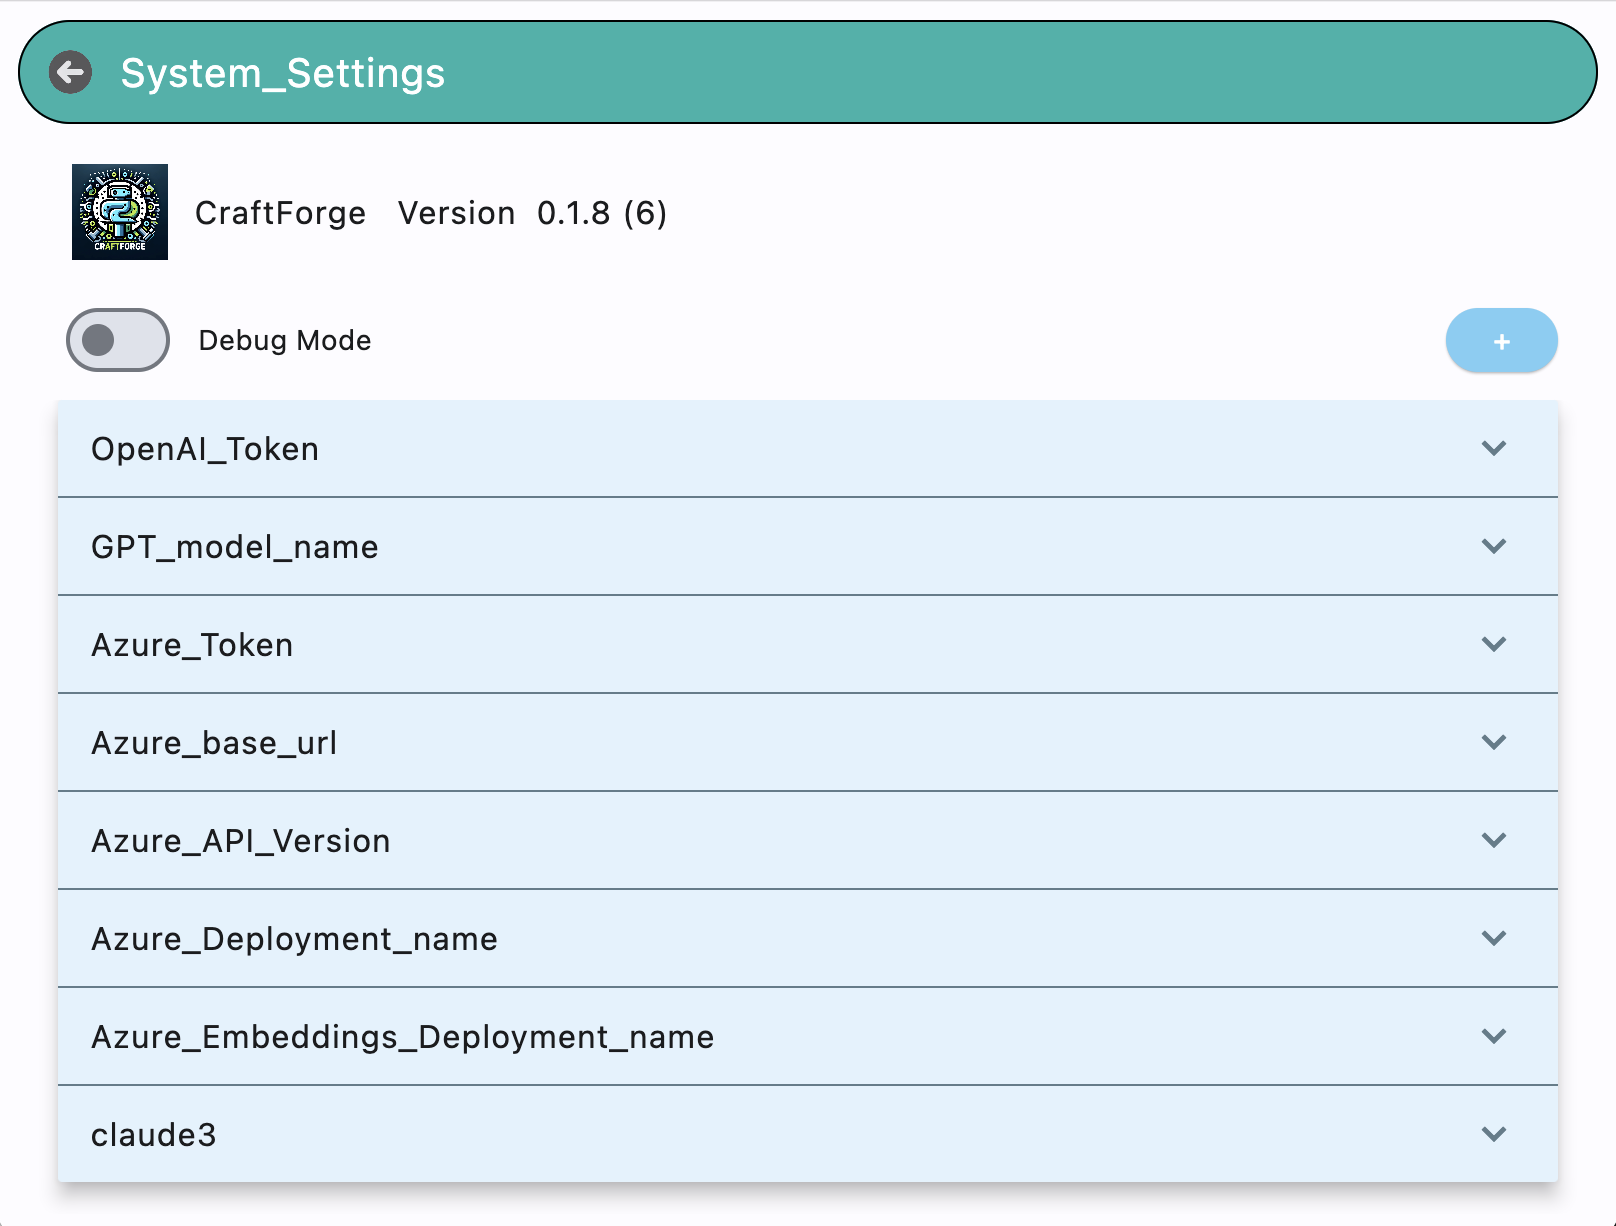
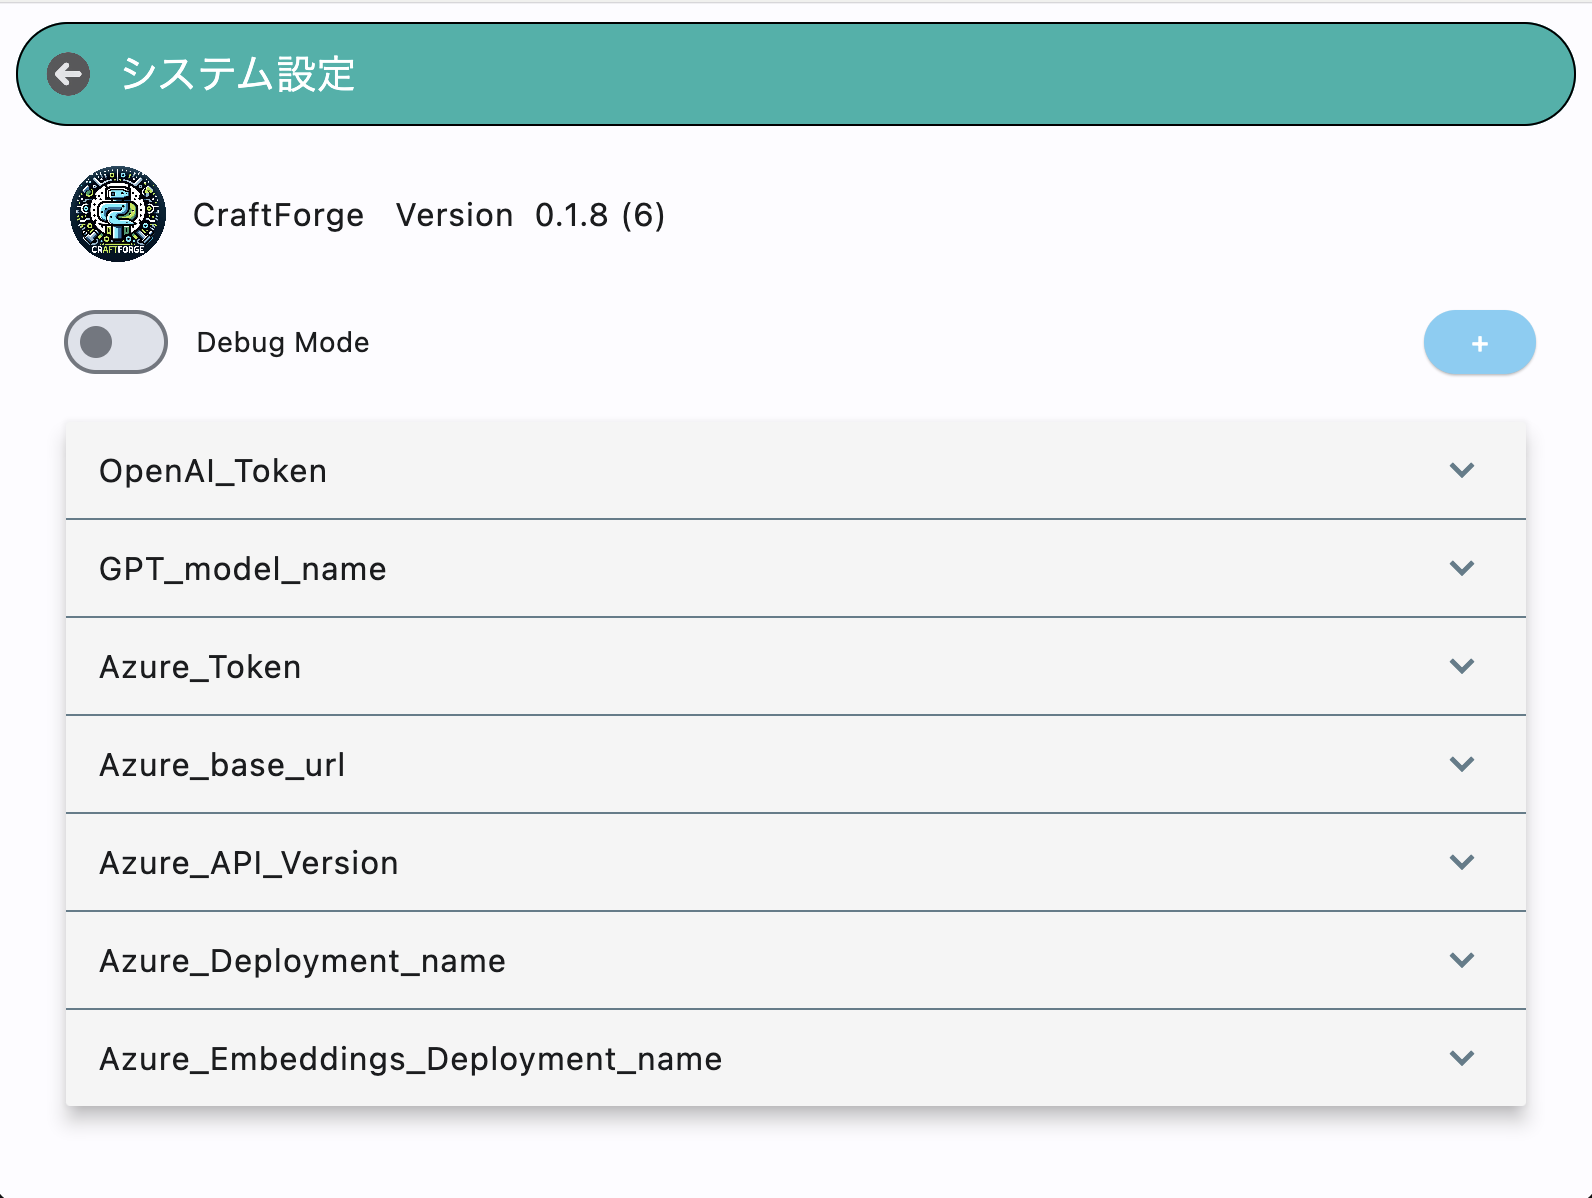
設定プラグインのレイアウト調整

diff --git a/system/settings/settings_plugin.py b/system/settings/settings_plugin.py
@@ -24,6 +24,7 @@ class SettingsPlugin(SystemPluginInterface):
     def load(self, page: ft.Page, function_to_top_page : Callable[[],None], plugin_dir_path: str):
         MY_SYSTEM_NAME = "CraftForgeBase"
         MY_APP_NAME = "System_Settings"
+        APP_TITLE = "システム設定"
         page.clean()
 
         def toggle_debug_mode(e):
@@ -56,7 +57,7 @@ class SettingsPlugin(SystemPluginInterface):
             content=app_icon,
             on_tap= lambda _: reset_page_setting_and_close()
         )
-        my_header_widget = get_component("SimpleHeader2", icon=clickable_icon, title_text=MY_APP_NAME, color="#20b2aa")
+        my_header_widget = get_component("SimpleHeader2", icon=clickable_icon, title_text=APP_TITLE, color="#20b2aa")
         page.add(my_header_widget)
 
         def add_new_setting(system_dict : dict, setting_name :str, element_name :str, element_value: str, description_value: str, is_encrypted: bool) -> bool:
@@ -121,7 +122,7 @@ class SettingsPlugin(SystemPluginInterface):
             my_version = "Version  " + my_system_info.get("version", "不明")
             my_build_num = my_system_info.get("build_number", "不明")
             my_version_info = my_version + " (" + my_build_num + ")"
-            app_icon_path = os.path.join(plugin_dir_path, "app_icon.png")
+            app_icon_path = os.path.join(plugin_dir_path, "cf_logo.png")
             with open(app_icon_path, "rb") as app_image_file:
                 encoded_image_string = base64.b64encode(app_image_file.read()).decode("utf-8")
                 my_app_icon = ft.Image(src_base64=encoded_image_string, width=50, height=50,  fit="contain")
@@ -163,25 +164,32 @@ class SettingsPlugin(SystemPluginInterface):
                 ft.Container(
                     ft.Column(
                         [
-                            ft.Column(
-                                [
-                                    tb1,tb2,tb3,tb4,tb5
-                                ],
+                            ft.Container(
+                                content=ft.Column(
+                                    [
+                                        tb1,tb2,tb3,tb4,tb5
+                                    ],
+                                ),
+                                padding=10,
                             ),
-                            ft.Column(
-                                [
-                                    b,
-                                ],
+                            ft.Container(
+                                content=ft.Column(
+                                    [
+                                        b,
+                                    ],
+                                ),
+                                padding=10,
                             ),
                         ],
                         horizontal_alignment=ft.CrossAxisAlignment.CENTER,
-                        alignment=ft.MainAxisAlignment.SPACE_BETWEEN,
+                        scroll=True,
                     ),
                     padding=10,
                     alignment=ft.alignment.center,
                 ),
                 open=False,
                 on_dismiss=bs_dismissed,
+                elevation=3.0,
             )
             page.overlay.append(bottom_sheet)
             self.bottom_sheet = bottom_sheet
@@ -231,7 +239,7 @@ class SettingsPlugin(SystemPluginInterface):
                         content_container.controls.append(list_tile)
 
                     exp = ft.ExpansionPanel(
-                        bgcolor=ft.colors.BLUE_50,
+                        bgcolor=ft.colors.GREY_100,
                         header=ft.ListTile(title=ft.Text(title)),
                         content=content_container,
                     )
@@ -240,9 +248,8 @@ class SettingsPlugin(SystemPluginInterface):
 
             body_container = ft.Container(
                 content=scrollable_container,
-                padding=ft.padding.only(left=20, right=20),  # 左右に余白を設定
+                padding=ft.padding.only(top=10, left=25, right=25),  # 左右に余白を設定
                 expand=True,  # コンテナをページ全体に広げる
-                border_radius=20,
             )
             page.add(body_container)
 
